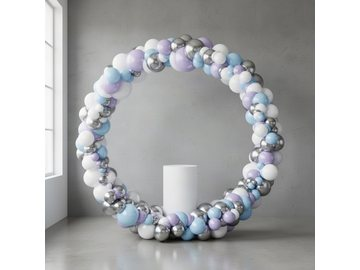
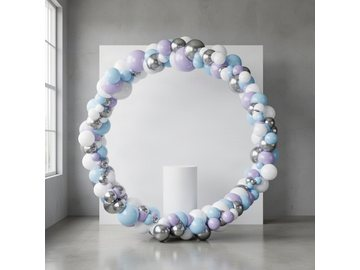
Front view, normal contrast, and the plinth back — fallout from the model switch
All three of these were caused by yesterday's model switch for lone-arch scenes,
reproduced first on the customer's exact configuration (lone arch + plinth +
number + neon, no cutout):

1. PLINTH MISSING. The non-flash model drops it on a lone arch. It is now named
   in a short front-loaded line — the detailed plinth clause is mid-prompt,
   which does not bind here.

2. SIDE VIEW. The non-flash model composes a three-quarter view of the room by
   default. A front-loaded camera line asks for a flat, square-on, level view.

3. CONTRAST OVERDONE. "Normal punchy contrast", which I added yesterday, was
   fine on flash and overshot on the non-flash model — deep shadows and heavy
   concrete texture. The line now asks for normal, even contrast and no deep
   shadows; the model supplies the saturation on its own.

Measured on the same scene: flash 0.0385 meanSat, non-flash with the punchy line
0.0759, non-flash with this line 0.0990. Honest note on the metric: global
luminance spread barely moved (55.1 -> 56.5) because it is dominated by the white
board against the grey wall — what changed is the deep shadow and the vignette,
which is what "abartmissin" was about.

The camera line is unconditional rather than lone-arch only, since the request
was general. Verified across all nine setups: every one renders square to camera
with its plinth present and no layout disturbed.

All nine setup samples plus the number-light and neon samples regenerated.
[…]

Changed region(s): [[0.1222, 0.0, 0.8556, 0.9481], [0.6722, 0.9481, 0.7028, 0.9778]]

diff --git a/lib/renderPrompts/buildLayoutRefEditPrompt.ts b/lib/renderPrompts/buildLayoutRefEditPrompt.ts
@@ -811,8 +811,24 @@ export function buildLayoutRefEditPrompt(
   // sentence: the long saturation paragraph tried on 2026-09-05 wrecked the
   // Single Arch layout (see the note in photographyOpening).
   const frontColourLine = !hasRoundPanelInPrompt && sceneModel.balloons.style !== "none"
-    ? `Full natural colour saturation and normal punchy contrast — not hazy, not washed out, ` +
-      `not grey-filtered. `
+    // 2026-09-09 (later): "punchy contrast" is gone. Paired with the non-flash
+    // model it overshot — deep shadows and heavy concrete texture, and the
+    // customer asked for normal. The model supplies the saturation now; this
+    // line only has to stop it going theatrical.
+    ? `Full natural colour saturation with NORMAL, even contrast — not high-contrast, not dramatic, ` +
+      `no deep shadows, not hazy, not washed out. `
+    : "";
+
+  // 2026-09-09: the non-flash model composes a three-quarter view of the room
+  // by default — the customer wants the setup square to camera — and it drops
+  // the plinth on a lone arch that has no standee. Both are stated up front,
+  // where this pipeline actually listens.
+  const frontCameraLine = `The camera looks STRAIGHT AT the setup, square on and level — a flat front view, ` +
+    `not angled, not a three-quarter view, not from the side. `;
+  const frontPlinthLine = sceneModel.plinths.length > 0
+    ? `${sceneModel.plinths.length === 1 ? "A" : String(sceneModel.plinths.length)} white cylindrical ` +
+      `pedestal column${sceneModel.plinths.length === 1 ? "" : "s"} stand${sceneModel.plinths.length === 1 ? "s" : ""} ` +
+      `on the floor in front of the backdrop and must appear in the photograph. `
     : "";
 
   const frontShapeLine = (() => {
@@ -1658,6 +1674,8 @@ const setupTemplateClause = setupTemplate
   return (
     frontShapeLine +
     frontColourLine +
+    frontCameraLine +
+    frontPlinthLine +
     frontBannerAspectLine +
     frontTripleArchLine +
     frontRingHalfLine +

diff --git a/app/api/generate-controlled-render/route.ts b/app/api/generate-controlled-render/route.ts
@@ -159,7 +159,7 @@ function isAuthOrBillingError(message: string | null): boolean {
 // process (sufficient for a single-instance/dev deployment — not a
 // distributed cache). Bump RENDER_CACHE_VERSION whenever a prompt/negative
 // change should invalidate previously cached (now-stale) renders.
-const RENDER_CACHE_VERSION = "lone-arch-full-model-round-shape-v86";
+const RENDER_CACHE_VERSION = "front-view-normal-contrast-plinth-v87";
 
 interface RenderCacheEntry {
   imageUrl: string;
